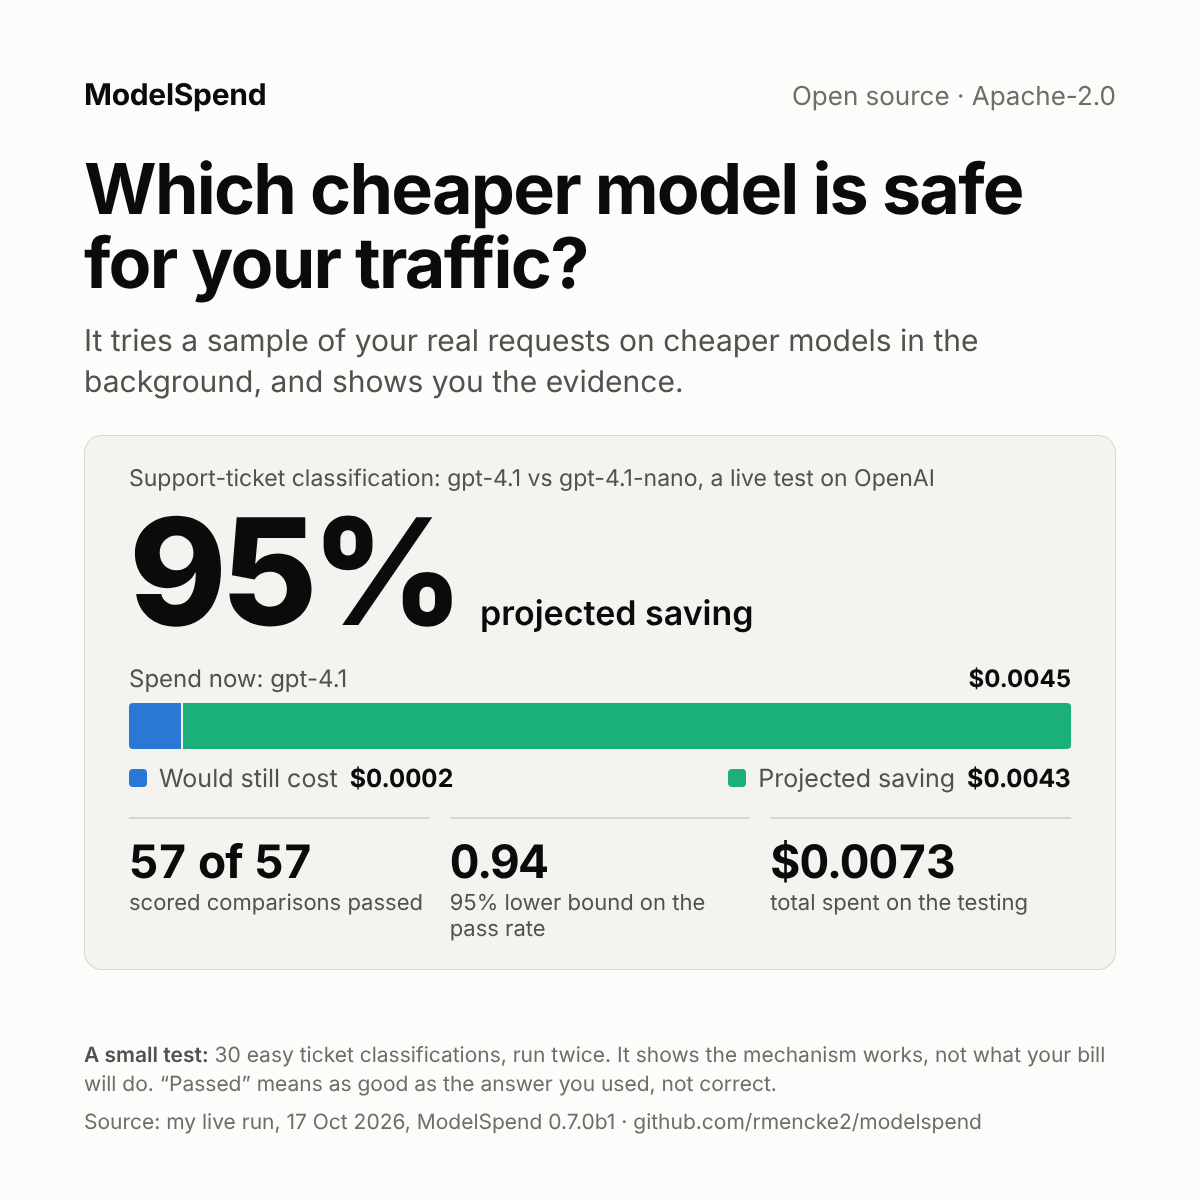
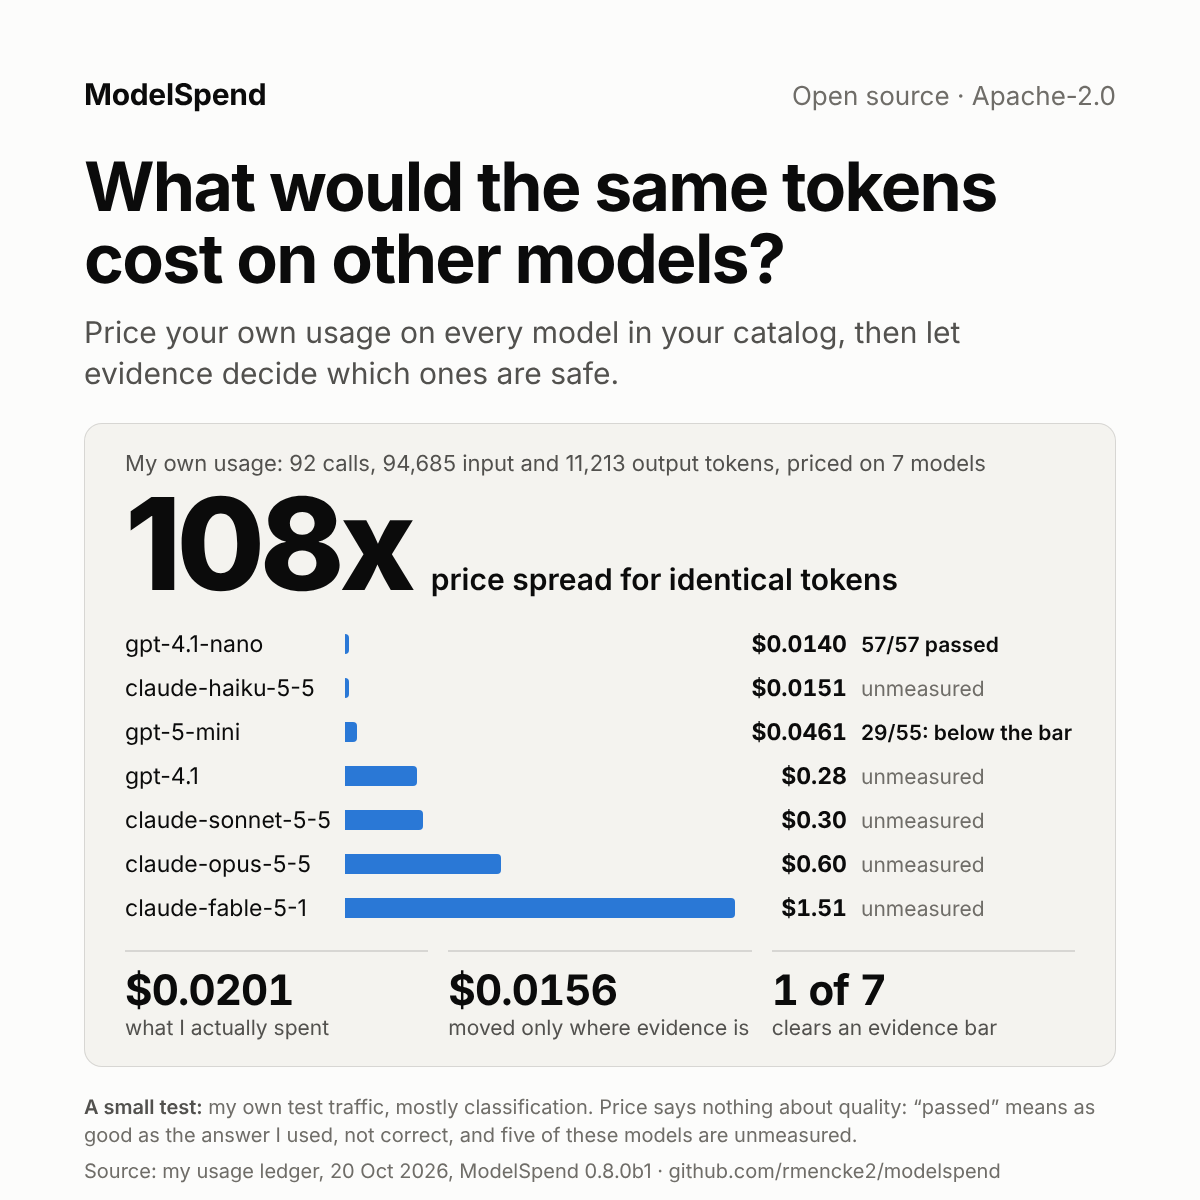
launch: post and card for 0.8.0b1 (the what-if table; numbers from a real run)
Claude-Session: https://claude.ai/code/session_01U7C5rPPzc52AxNvUCo1bwy

Changed region(s): [[0.0617, 0.37, 0.925, 0.9867], [0.0617, 0.1233, 0.8633, 0.3392]]

diff --git a/docs/launch/launch-card.html b/docs/launch/launch-card.html
@@ -1,53 +1,58 @@
 <!doctype html>
 <html lang="en"><head><meta charset="utf-8"><meta name="viewport" content="width=1200">
-<title>ModelSpend launch card</title>
+<title>ModelSpend 0.8.0b1 launch card</title>
 <style>
-:root{--surface:#fcfcfb;--ink:#0b0b0b;--ink2:#52514e;--muted:#6f6d68;--hair:rgba(11,11,11,.12);--s1:#2a78d6;--s2:#1baf7a;--panel:#f4f3ef}
+:root{--surface:#fcfcfb;--ink:#0b0b0b;--ink2:#52514e;--muted:#6f6d68;--hair:rgba(11,11,11,.12);--s1:#2a78d6;--panel:#f4f3ef}
 *{box-sizing:border-box;margin:0}
 html,body{width:1200px;height:1200px;background:var(--surface);color:var(--ink);font-family:Inter,system-ui,-apple-system,"Segoe UI",Roboto,Helvetica,Arial,sans-serif;-webkit-font-smoothing:antialiased}
 .card{width:1200px;height:1200px;padding:76px 84px 64px;display:flex;flex-direction:column}
 .top{display:flex;justify-content:space-between;align-items:baseline;font-size:26px}
 .top b{font-weight:700;letter-spacing:-.01em;font-size:30px}.top span{color:var(--muted)}
-h1{font-size:70px;line-height:1.06;letter-spacing:-.025em;font-weight:700;margin-top:40px;max-width:1010px}
-.sub{font-size:30px;line-height:1.35;color:var(--ink2);margin-top:20px;max-width:960px}
-.panel{background:var(--panel);border:1px solid var(--hair);border-radius:18px;padding:28px 44px 28px;margin-top:34px;margin-bottom:30px}
-.kicker{font-size:23px;color:var(--ink2)}
-.hero{display:flex;align-items:baseline;gap:22px;margin-top:6px}
-.hero .n{font-size:148px;line-height:1;font-weight:800;letter-spacing:-.04em}
-.hero .l{font-size:34px;font-weight:600;color:var(--ink)}
-.barlabel{display:flex;justify-content:space-between;font-size:24px;color:var(--ink2);margin:18px 0 10px}
-.bar{display:flex;gap:2px;height:46px}
-.bar i{display:block;height:100%}
-.bar .keep{background:var(--s1);flex:0 0 52px;border-radius:4px 0 0 4px}
-.bar .save{background:var(--s2);flex:1 1 auto;border-radius:0 4px 4px 0}
-.legend{display:flex;justify-content:space-between;margin-top:14px;font-size:25px}
-.legend div{display:flex;align-items:center;gap:12px}.legend em{font-style:normal;color:var(--ink2)}.legend b{font-weight:700;font-variant-numeric:tabular-nums}
-.k{display:inline-block;width:18px;height:18px;border-radius:4px}
-.stats{display:grid;grid-template-columns:repeat(3,1fr);gap:20px;margin-top:24px}
-.stat{border-top:2px solid var(--hair);padding-top:14px}
-.stat b{display:block;font-size:46px;font-weight:700;letter-spacing:-.02em;font-variant-numeric:tabular-nums}.stat span{font-size:22px;color:var(--ink2)}
-.foot{margin-top:auto;font-size:21px;line-height:1.4;color:var(--muted)}
+h1{font-size:68px;line-height:1.06;letter-spacing:-.025em;font-weight:700;margin-top:38px;max-width:1010px}
+.sub{font-size:30px;line-height:1.35;color:var(--ink2);margin-top:18px;max-width:980px}
+.panel{background:var(--panel);border:1px solid var(--hair);border-radius:18px;padding:26px 40px 26px;margin-top:30px;margin-bottom:26px}
+.kicker{font-size:22px;color:var(--ink2)}
+.hero{display:flex;align-items:baseline;gap:20px;margin-top:4px}
+.hero .n{font-size:128px;line-height:1;font-weight:800;letter-spacing:-.04em}
+.hero .l{font-size:30px;font-weight:600;max-width:560px;line-height:1.2}
+.rows{margin-top:14px}
+.row{display:grid;grid-template-columns:206px 1fr 98px 214px;gap:14px;align-items:center;height:44px;font-size:23px}
+.row .m{color:var(--ink)}
+.row .track{display:block;height:20px}
+.row .track i{display:block;height:100%;background:var(--s1);border-radius:0 4px 4px 0;min-width:3px}
+.row .v{text-align:right;font-weight:700;font-variant-numeric:tabular-nums}
+.row .e{color:var(--muted);font-size:21px}.row .e.has{color:var(--ink);font-weight:600}
+.stats{display:grid;grid-template-columns:repeat(3,1fr);gap:20px;margin-top:20px}
+.stat{border-top:2px solid var(--hair);padding-top:12px}
+.stat b{display:block;font-size:42px;font-weight:700;letter-spacing:-.02em;font-variant-numeric:tabular-nums}.stat span{font-size:21px;color:var(--ink2)}
+.foot{margin-top:auto;font-size:20px;line-height:1.4;color:var(--muted)}
 .foot p+p{margin-top:8px}.foot b{color:var(--ink2);font-weight:600}
 </style></head><body>
 <div class="card">
   <div class="top"><b>ModelSpend</b><span>Open source · Apache-2.0</span></div>
-  <h1>Which cheaper model is safe for your traffic?</h1>
-  <p class="sub">It tries a sample of your real requests on cheaper models in the background, and shows you the evidence.</p>
-  <section class="panel" aria-label="Ticket classification: spend now and projected saving">
-    <div class="kicker">Support-ticket classification: gpt-4.1 vs gpt-4.1-nano, a live test on OpenAI</div>
-    <div class="hero"><span class="n">95%</span><span class="l">projected saving</span></div>
-    <div class="barlabel"><span>Spend now: gpt-4.1</span><b style="color:var(--ink);font-weight:700">$0.0045</b></div>
-    <div class="bar" role="img" aria-label="Spend now $0.0045: would still cost $0.0002, projected saving $0.0043"><i class="keep"></i><i class="save"></i></div>
-    <div class="legend"><div><span class="k" style="background:var(--s1)"></span><em>Would still cost</em> <b>$0.0002</b></div><div><span class="k" style="background:var(--s2)"></span><em>Projected saving</em> <b>$0.0043</b></div></div>
+  <h1>What would the same tokens cost on other models?</h1>
+  <p class="sub">Price your own usage on every model in your catalog, then let evidence decide which ones are safe.</p>
+  <section class="panel" aria-label="The same tokens priced on seven models">
+    <div class="kicker">My own usage: 92 calls, 94,685 input and 11,213 output tokens, priced on 7 models</div>
+    <div class="hero"><span class="n">108x</span><span class="l">price spread for identical tokens</span></div>
+    <div class="rows" role="list">
+      <div class="row" role="listitem"><span class="m">gpt-4.1-nano</span><span class="track"><i style="width:0.93%"></i></span><span class="v">$0.0140</span><span class="e has">57/57 passed</span></div>
+      <div class="row" role="listitem"><span class="m">claude-haiku-5-5</span><span class="track"><i style="width:1.0%"></i></span><span class="v">$0.0151</span><span class="e">unmeasured</span></div>
+      <div class="row" role="listitem"><span class="m">gpt-5-mini</span><span class="track"><i style="width:3.06%"></i></span><span class="v">$0.0461</span><span class="e has">29/55: below the bar</span></div>
+      <div class="row" role="listitem"><span class="m">gpt-4.1</span><span class="track"><i style="width:18.5%"></i></span><span class="v">$0.28</span><span class="e">unmeasured</span></div>
+      <div class="row" role="listitem"><span class="m">claude-sonnet-5-5</span><span class="track"><i style="width:20%"></i></span><span class="v">$0.30</span><span class="e">unmeasured</span></div>
+      <div class="row" role="listitem"><span class="m">claude-opus-5-5</span><span class="track"><i style="width:40%"></i></span><span class="v">$0.60</span><span class="e">unmeasured</span></div>
+      <div class="row" role="listitem"><span class="m">claude-fable-5-1</span><span class="track"><i style="width:100%"></i></span><span class="v">$1.51</span><span class="e">unmeasured</span></div>
+    </div>
     <div class="stats">
-      <div class="stat"><b>57 of 57</b><span>scored comparisons passed</span></div>
-      <div class="stat"><b>0.94</b><span>95% lower bound on the pass rate</span></div>
-      <div class="stat"><b>$0.0073</b><span>total spent on the testing</span></div>
+      <div class="stat"><b>$0.0201</b><span>what I actually spent</span></div>
+      <div class="stat"><b>$0.0156</b><span>moved only where evidence is</span></div>
+      <div class="stat"><b>1 of 7</b><span>clears an evidence bar</span></div>
     </div>
   </section>
   <div class="foot">
-    <p><b>A small test:</b> 30 easy ticket classifications, run twice. It shows the mechanism works, not what your bill will do. “Passed” means as good as the answer you used, not correct.</p>
-    <p>Source: my live run, 17 Oct 2026, ModelSpend 0.7.0b1 · github.com/rmencke2/modelspend</p>
+    <p><b>A small test:</b> my own test traffic, mostly classification. Price says nothing about quality: “passed” means as good as the answer I used, not correct, and five of these models are unmeasured.</p>
+    <p>Source: my usage ledger, 20 Oct 2026, ModelSpend 0.8.0b1 · github.com/rmencke2/modelspend</p>
   </div>
 </div>
 </body></html>

diff --git a/docs/launch/launch-post-0.8.0b1.md b/docs/launch/launch-post-0.8.0b1.md
@@ -1,0 +1,49 @@
+# Launch post: ModelSpend 0.8.0b1
+
+Numbers below come from the maintainer's own runs (the what-if table over 92 test calls on 20 Oct 2026, `modelspend verify --cache` on OpenAI, an OpenRouter dry run). Re-run `modelspend whatif --since 30d` and check them before posting. Image: `launch-card-1200.png` (source `launch-card.html`).
+
+## LinkedIn
+
+**I priced my own LLM usage on seven models with one command. The same tokens cost between $0.01 and $1.51.**
+
+That's a 108x spread, and it's the easy part. The hard part is knowing which of the cheaper models is good enough for your work. In my table, only one of the seven had cleared an evidence bar. Five had no evidence at all, so they say "unmeasured", not "safe".
+
+That's the idea behind the new version of ModelSpend, an open-source tool (Apache-2.0) that runs locally with your own API keys:
+
+• Paste your provider's usage export and get the table on day one, before it has seen any traffic. Nothing is stored.
+• If you opt in, it also tries a small sample of your real requests on cheaper models in the background. A model is only recommended when the evidence clears a statistical bar.
+• A new `verify` command checks a provider on your own key: does it report token usage, are cached tokens counted once? A wrong cost number is worse than none. On OpenAI, 183 uncached + 1,152 cached tokens added up to the same 1,335 as the uncached first call.
+
+Honest limits. My table is 92 calls of my own test traffic, mostly classification. It proves the mechanism, not a saving. "Passed" means as good as the answer you used, not correct. Price says nothing about quality. I've used it live with OpenAI and Anthropic and checked a local Ollama model and OpenRouter's model list; DeepSeek, Gemini and xAI are not tested live yet.
+
+Skepticism about software that picks your model is fair, which is why it shows its evidence and says "unmeasured" when it has none.
+
+It's a beta, built for one developer or a small team.
+
+What's the most expensive model you're using for something a cheaper one could probably do?
+
+#OpenSource #LLM #AI #DevTools
+
+*First comment: github.com/rmencke2/modelspend. Install: `pip install git+https://github.com/rmencke2/modelspend.git`. Swap in `pip install modelspend` once PyPI is live.*
+
+## Show HN / Reddit (shorter, more technical)
+
+> **Show HN: ModelSpend 0.8 – price your LLM usage on every model from your provider's usage export**
+>
+> Open source (Apache-2.0), runs locally, your own keys (OpenAI, Anthropic, Google, xAI, DeepSeek, any OpenAI-compatible endpoint). New in 0.8: `modelspend whatif --from-export usage.csv --export-provider openai` prices the tokens in your provider's own export on every model in your catalog, before ModelSpend has seen any traffic (nothing is stored). Each row carries the evidence we have for it from opt-in shadow evaluation (a sample of real requests tried on cheaper models and compared with the answer you used; a model counts only when the 95% Wilson lower bound of its pass rate clears a bar), and says "unmeasured" when there is none. On my own 92 test calls the same tokens priced 108x apart across seven models; one cleared a bar.
+>
+> Also: `modelspend verify` runs a few tiny requests against a provider on your key and checks what your cost numbers depend on (usage reported, streaming usage, a classified error for an unknown model, cached tokens counted once); `modelspend caching` finds long prompt starts that repeat and whether the provider is caching them (it stores keyed hashes and token counts, never text, and you can turn it off); `modelspend share` writes a static report with no scripts or network access.
+>
+> Found live: OpenRouter's model list has a `:batch` twin of every model at exactly half the price. They look asynchronous, so the importer skips them unless asked.
+>
+> Honest limits: "passed" means "as good as the answer you used", not "correct"; my test traffic is small and mostly classification; used live with OpenAI and Anthropic, plus a local Ollama model and OpenRouter's model list; DeepSeek/Gemini/xAI not yet. Beta, for solo devs and small teams. Feedback on the method very welcome.
+>
+> github.com/rmencke2/modelspend
+
+## Notes on choices
+
+- **The number is a price spread, not a saving.** 108x is the most expensive model's cost for these exact tokens divided by the cheapest's. The post and card say price says nothing about quality, and the card's other figure ($0.0156 against $0.0201 actually spent) is the cost if only the task with evidence moved, which is a small, honest saving on small traffic.
+- **"Seven models" is the seven you call directly** (gpt-4.1-nano, gpt-4.1, gpt-5-mini, claude-haiku-5-5, claude-sonnet-5-5, claude-opus-5-5, claude-fable-5-1). The full table also has a free local Ollama model (no per-token price, so it would make any ratio meaningless) and OpenRouter copies of models already listed at identical prices; both are left off the card on purpose.
+- **The unverified list is in the post on purpose.** It names what was and wasn't checked live, so nobody finds the gap for you.
+- **The link goes in the first comment**, because LinkedIn tends to show posts with outbound links to fewer people.
+- **If you have a one-sentence reason you built this, add it after the second paragraph.** I haven't invented one.
